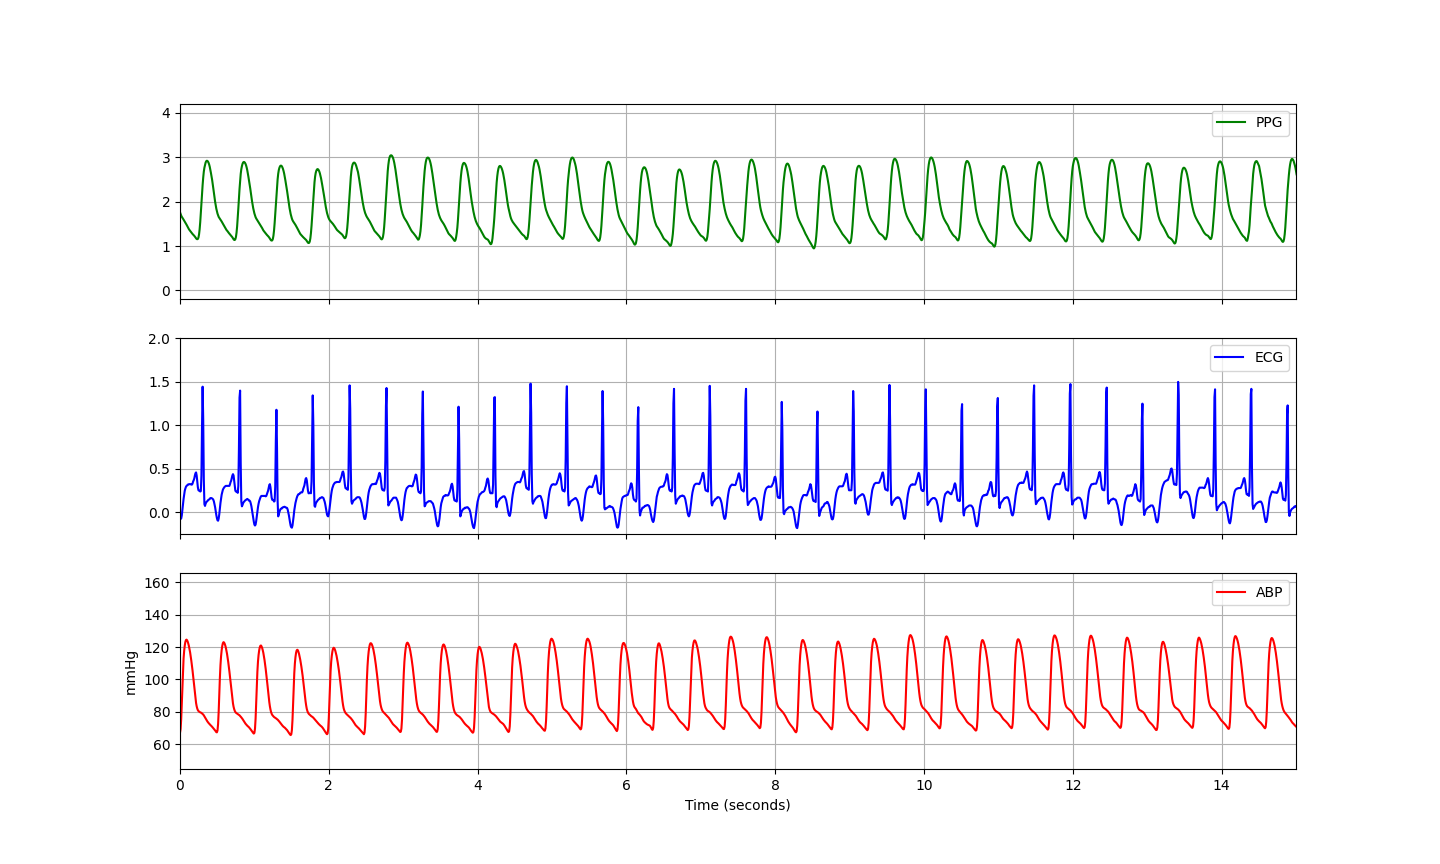
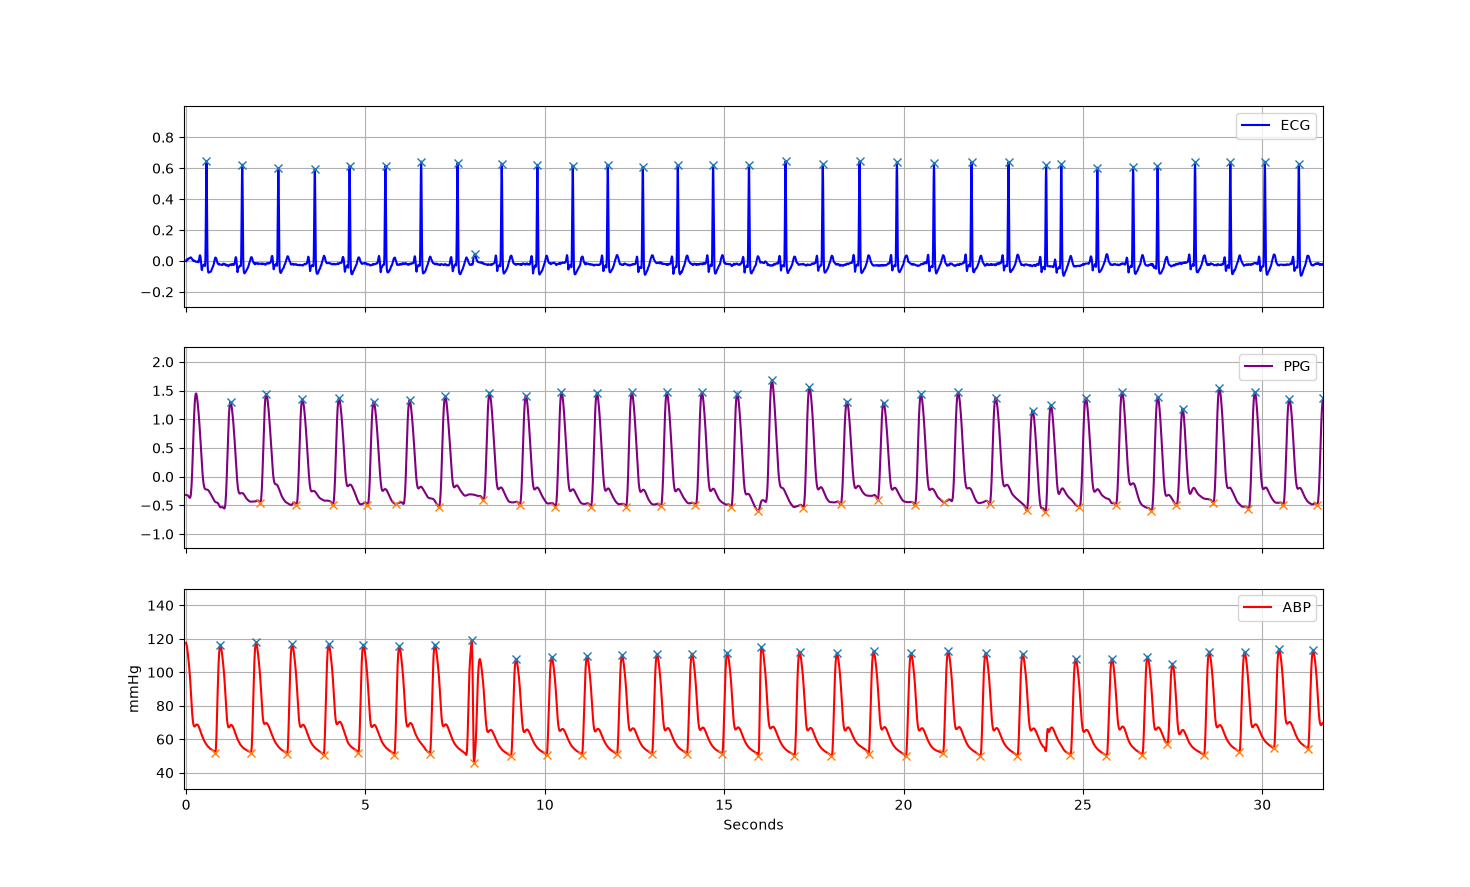
Debug plot with peak, foot, and sys/dia markers

diff --git a/src/signals.py b/src/signals.py
@@ -4,23 +4,22 @@ import config
 import matplotlib.pyplot as plt
 import numpy as np
 from scipy.signal import butter, sosfiltfilt, find_peaks
+from pathlib import Path
 
 # Load
-record_id, ppg, abp, ecg = load_record("data/raw/Part_1.mat", 0)
+record_id, ppg, abp, ecg = load_record(Path("data/raw/Part_1.mat"), 795)
 
 # ECG
 ecg_cleaned = nk.ecg_clean(ecg, sampling_rate=config.FS)
-ecg_signals_bool, ecg_info = nk.ecg_peaks(ecg_cleaned, sampling_rate=config.FS)
+ecg_signals_mask, ecg_info = nk.ecg_peaks(ecg_cleaned, sampling_rate=config.FS)
 ecg_R_peaks_idx = ecg_info['ECG_R_Peaks']
-ecg_R_peaks_val = ecg_cleaned[ecg_R_peaks_idx]
 
 # PPG
 ppg_cleaned = nk.ppg_clean(ppg, sampling_rate=config.FS)
-ppg_signals_bool, ppg_info = nk.ppg_peaks(ppg_cleaned, sampling_rate=config.FS)
+ppg_signals_mask, ppg_info = nk.ppg_peaks(ppg_cleaned, sampling_rate=config.FS)
 ppg_peaks_idx = ppg_info['PPG_Peaks']
-ppg_peaks_val = ppg_cleaned[ppg_peaks_idx]
 
-# Foot
+# Foot - foot belongs to peak_idx + 1 and first beat has no foot
 ppg_foot_idx = []
 for i in range(len(ppg_peaks_idx) - 1):
     start = ppg_peaks_idx[i]
@@ -33,23 +32,39 @@ ppg_foot_val = ppg_cleaned[ppg_foot_idx]
 # ABP
 sos = butter(4, 15, btype='low', fs=config.FS, output='sos')
 abp_cleaned = sosfiltfilt(sos, abp)
-sys_peaks_idx, sys_properties = find_peaks(abp_cleaned, distance=40, prominence=0.1)
-dys_troughs_idx, dys_properties = find_peaks(-abp_cleaned, distance=40, prominence=0.1)
+sys_peaks_idx, sys_properties = find_peaks(abp_cleaned, distance=40, prominence=15, height=-np.inf)
+dia_troughs_idx, dia_properties = find_peaks(-abp_cleaned, distance=40, prominence=15, height=-np.inf)
 
-# Overlay plot of raw vs clean ECG
-plt.plot((np.arange(len(ecg))), ecg, label='Raw', color='gold', linestyle='--')
-plt.plot((np.arange(len(ecg_cleaned))), ecg_cleaned, label='Cleaned', color='purple')
-plt.xlim(0, 250)
-plt.xlabel('Time(seconds)')
-plt.title('ECG Raw vs Cleaned')
-plt.legend()
-plt.grid()
+# Debug Plot
+fig, ax = plt.subplots(3, sharex=True)
+
+# fig.supxlabel("Time (seconds)")
+ecg_t = np.arange(len(ecg_cleaned)) / config.FS
+ax[0].plot(ecg_t, ecg_cleaned, label="ECG", color="blue")
+ax[0].plot(ecg_t[ecg_R_peaks_idx], ecg_cleaned[ecg_R_peaks_idx], "x")
+ax[0].set_ylim(-0.3,1)
+ax[0].grid()
+ax[0].legend()
+ppg_t = np.arange(len(ppg_cleaned)) / config.FS
+ax[1].plot(ppg_t, ppg_cleaned, label="PPG", color="purple")
+ax[1].plot(ppg_t[ppg_peaks_idx], ppg_cleaned[ppg_peaks_idx], "x")
+ax[1].plot(ppg_t[ppg_foot_idx], ppg_foot_val, "x")
+ax[1].set_ylim(-1.25,2.25)
+ax[1].grid()
+ax[1].legend()
+abp_t = np.arange(len(abp_cleaned)) / config.FS
+ax[2].plot(abp_t, abp_cleaned, label="ABP", color="red")
+ax[2].plot(abp_t[sys_peaks_idx], abp_cleaned[sys_peaks_idx], "x")
+ax[2].plot(abp_t[dia_troughs_idx], abp_cleaned[dia_troughs_idx], "x")
+ax[2].set_ylabel("mmHg")
+ax[2].set_ylim(30, 150)
+ax[2].grid()
+ax[2].legend()
+ax[2].set_xlabel("Seconds")
 plt.show()
 
-# Plot ABP
-plt.plot((np.arange(len(abp_cleaned))), abp_cleaned, label='ABP', color='red')
-plt.xlim(1,250)
-plt.xlabel('Time(seconds)')
-plt.legend()
-plt.grid()
-plt.show()
+# Debug summary
+print(f"\n{record_id}")
+for name, idx in [("R", ecg_R_peaks_idx), ("PPG", ppg_peaks_idx), ("foot", ppg_foot_idx), ("sys", sys_peaks_idx), ("dia", dia_troughs_idx)]:
+    ibi = np.diff(idx) / config.FS
+    print(f"{name:5s} n={len(idx):4d} HR={60/np.median(ibi):5.1f} IBI min/max={ibi.min():.2f}/{ibi.max():.2f}s")

diff --git a/src/load.py b/src/load.py
@@ -1,10 +1,11 @@
 import h5py
 import numpy as np
 import matplotlib.pyplot as plt
+from pathlib import Path
 
-def load_record(part: str, i: int) -> tuple[str, np.ndarray, np.ndarray, np.ndarray]:
+def load_record(part: Path, i: int) -> tuple[str, np.ndarray, np.ndarray, np.ndarray]:
     with h5py.File(part, "r") as file:
-        part_name = list(file.keys())[1]
+        part_name = part.stem
         ref = file[part_name][i, 0]
         rec = file[ref][:].T
         record_id = part_name + '_Patient_' + str(i)
@@ -40,13 +41,8 @@ def plot_waveforms(ppg: np.ndarray, ecg: np.ndarray, abp: np.ndarray):
         xlim_range1 = cur_xmax1 - cur_xmin1
 
         cur_xmin2, cur_xmax2 = ax[1].get_xlim()
-        xlim_range2 = cur_xmax2 - cur_xmin2
-
         cur_xmin3, cur_xmax3 = ax[1].get_xlim()
-        xlim_range3 = cur_xmax3 - cur_xmin3
-
-        scale_factor = 0.01 * xlim_range1
-        scale_factor = 0.01 * xlim_range2
+        scale_factor = 0.02 * xlim_range1
 
         if event.button == 'up':
             ax[0].set_xlim([cur_xmin1 + scale_factor, cur_xmax1 + scale_factor])
@@ -70,13 +66,12 @@ def plot_waveforms(ppg: np.ndarray, ecg: np.ndarray, abp: np.ndarray):
 
 
 def main():
-    part = "data/raw/Part_1.mat"    # Set raw .mat file
+    part = Path("data/raw/Part_1.mat")    # Set raw .mat file
     record_id, ppg, abp, ecg = load_record(part, 0) # load_record(<raw mat file>, <observation index>)
     plot_waveforms(ppg, ecg, abp)
-    print(f"\nRECORD ID: {record_id}")
+    print(f"\nRecord ID: {record_id}")
     print(f"PPG rows: {len(ppg)}, ABP rows: {len(abp)}, ECG rows: {len(ecg)}")
-    print(f"DATA TYPES: {ppg.dtype, abp.dtype, ecg.dtype}\n")
-    print(len(ecg))
+    print(f"Data Types: {ppg.dtype, abp.dtype, ecg.dtype}\n")
 
 if __name__ == "__main__":
     main()
